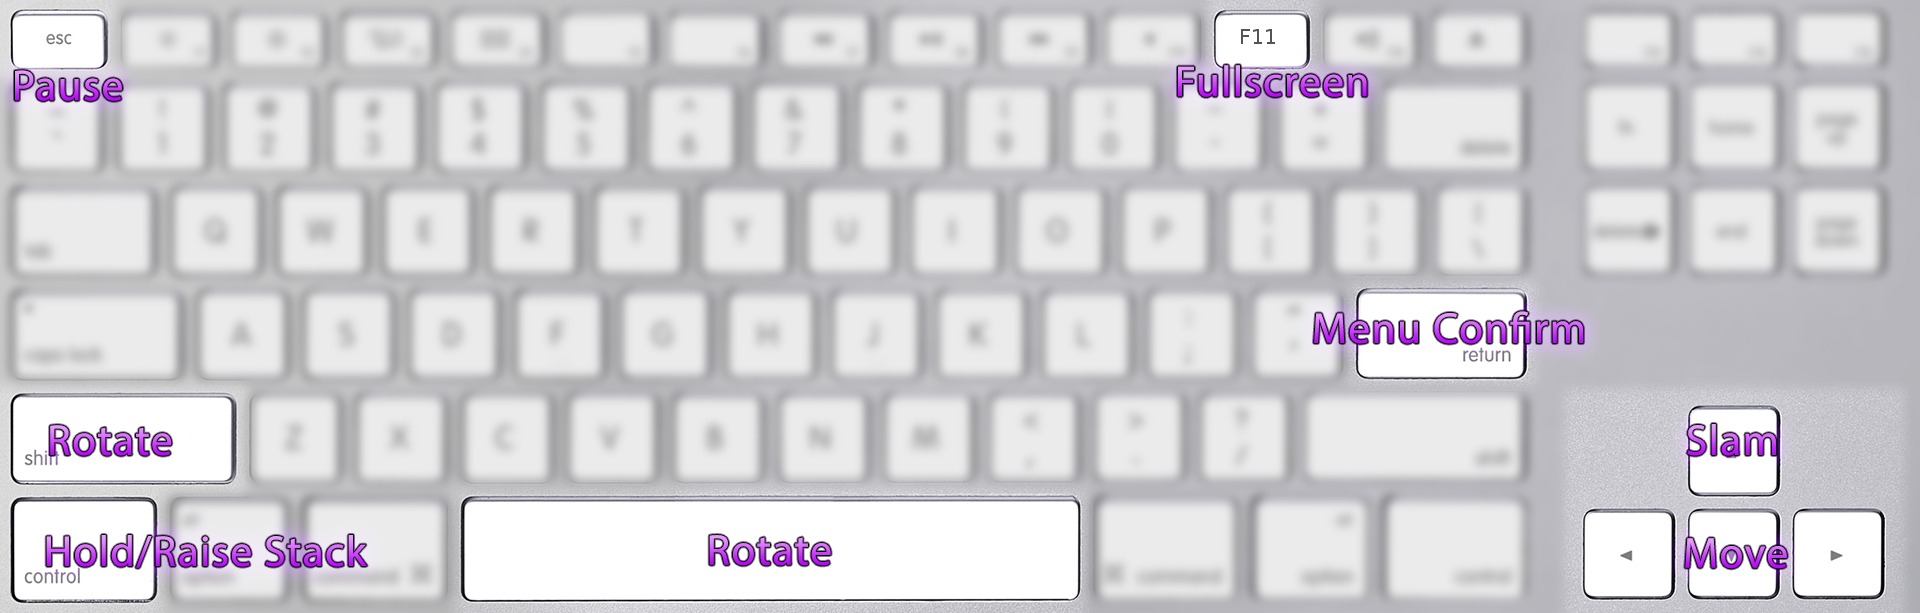
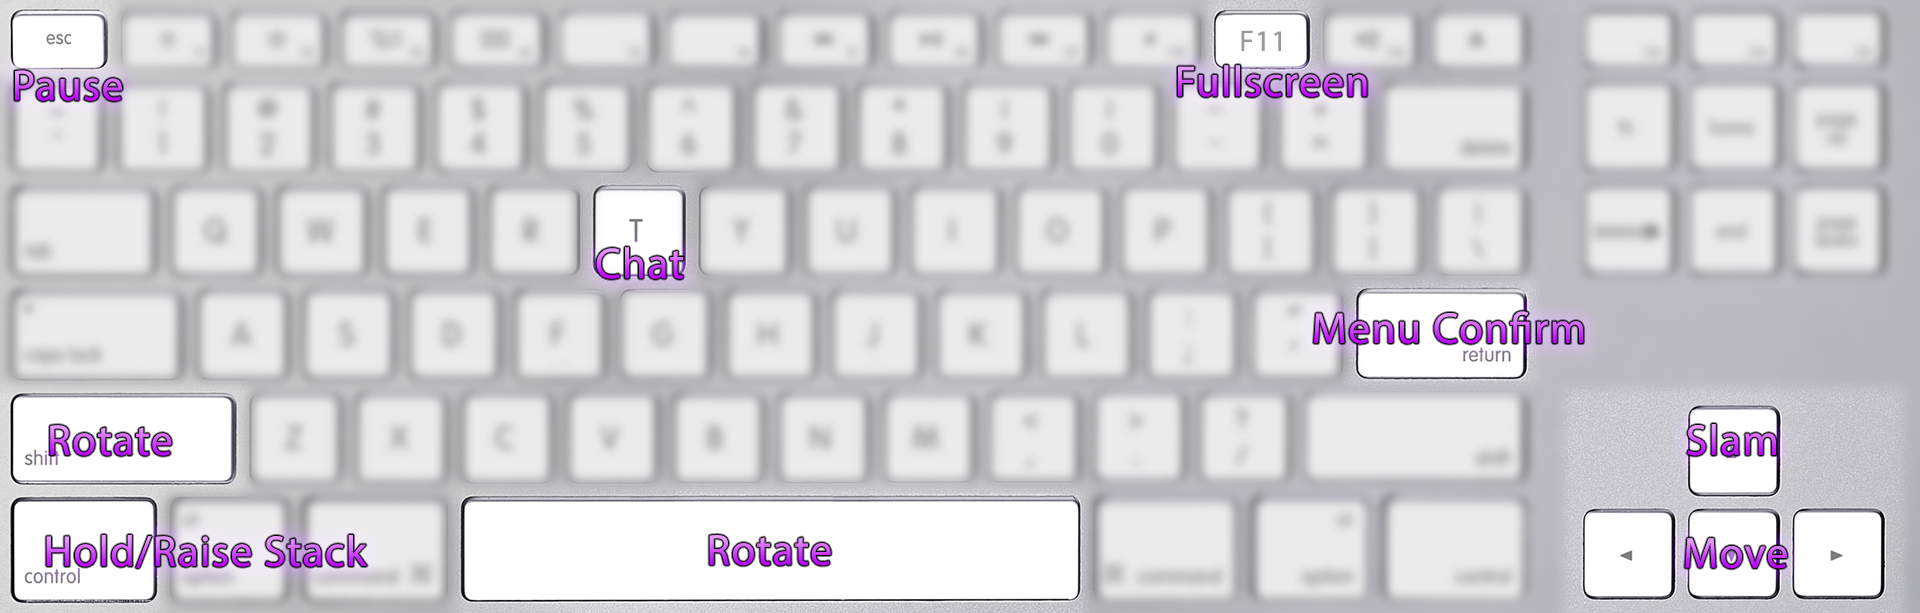
shipping new build, then do chat on server

Changed region(s): [[0.2812, 0.279, 0.375, 0.4959]]

diff --git a/src/Utility/ControlsManager.cpp b/src/Utility/ControlsManager.cpp
@@ -432,6 +432,177 @@ void ControlsManager::resetPressedButtons()
 }
 
 //=========================================================================================================================
+void ControlsManager::unsetHeldButtons()
+{//=========================================================================================================================
+	
+
+	KEY_UP_HELD = false;
+	KEY_DOWN_HELD = false;
+	KEY_LEFT_HELD = false;
+	KEY_RIGHT_HELD = false;
+	KEY_SPACE_HELD = false; //was A
+	KEY_TAB_HELD = false; //was START
+	KEY_RETURN_HELD = false; //was SELECT
+	KEY_A_HELD = false;
+	KEY_B_HELD = false;
+	KEY_C_HELD = false;
+	KEY_D_HELD = false;
+	KEY_E_HELD = false;
+	KEY_F_HELD = false;
+	KEY_G_HELD = false;
+	KEY_H_HELD = false;
+	KEY_I_HELD = false;
+	KEY_J_HELD = false;
+	KEY_K_HELD = false;
+	KEY_L_HELD = false;
+	KEY_M_HELD = false;
+	KEY_N_HELD = false;
+	KEY_O_HELD = false;
+	KEY_P_HELD = false;
+	KEY_Q_HELD = false;
+	KEY_R_HELD = false;
+	KEY_S_HELD = false;
+	KEY_T_HELD = false;
+	KEY_U_HELD = false;
+	KEY_V_HELD = false;
+	KEY_W_HELD = false;
+	KEY_X_HELD = false;
+	KEY_Y_HELD = false;
+	KEY_Z_HELD = false;
+	KEY_COMMA_HELD = false;
+	KEY_PERIOD_HELD = false;
+	KEY_FRONTSLASH_HELD = false;
+	KEY_SEMICOLON_HELD = false;
+	KEY_QUOTE_HELD = false;
+	KEY_BACKSLASH_HELD = false;
+
+	KEY_LBRACKET_HELD = false; //was L
+	KEY_RBRACKET_HELD = false; //was R
+	KEY_RALT_HELD = false;
+	KEY_LALT_HELD = false;
+	KEY_LSHIFT_HELD = false; //was B
+	KEY_RSHIFT_HELD = false; //quickzoom
+	KEY_LCTRL_HELD = false;
+	KEY_RCTRL_HELD = false; //quickzoom
+	KEY_BACKSPACE_HELD = false; //reset zoom
+	KEY_ESC_HELD = false;
+	KEY_F1_HELD = false;
+	KEY_F2_HELD = false;
+	KEY_F3_HELD = false;
+	KEY_F4_HELD = false;
+	KEY_F5_HELD = false;
+	KEY_F6_HELD = false;
+	KEY_F7_HELD = false;
+	KEY_F8_HELD = false;
+	KEY_F9_HELD = false;
+	KEY_F10_HELD = false;
+	KEY_F11_HELD = false;
+	KEY_F12_HELD = false;
+	KEY_PRINTSCREEN_HELD = false;
+	KEY_PAUSE_HELD = false;
+	KEY_TILDE_HELD = false;
+	KEY_1_HELD = false;
+	KEY_2_HELD = false;
+	KEY_3_HELD = false;
+	KEY_4_HELD = false;
+	KEY_5_HELD = false;
+	KEY_6_HELD = false;
+	KEY_7_HELD = false;
+	KEY_8_HELD = false;
+	KEY_9_HELD = false;
+	KEY_0_HELD = false;
+	KEY_MINUS_HELD = false; //zoom in
+	KEY_PLUS_HELD = false; //zoom out
+	KEY_NUM0_HELD = false;
+	KEY_NUM1_HELD = false;
+	KEY_NUM2_HELD = false;
+	KEY_NUM3_HELD = false;
+	KEY_NUM4_HELD = false;
+	KEY_NUM5_HELD = false;
+	KEY_NUM6_HELD = false;
+	KEY_NUM7_HELD = false;
+	KEY_NUM8_HELD = false;
+	KEY_NUM9_HELD = false;
+
+
+
+	BGCLIENT_UP_HELD = false;
+	BGCLIENT_DOWN_HELD = false;
+	BGCLIENT_LEFT_HELD = false;
+	BGCLIENT_RIGHT_HELD = false;
+	BGCLIENT_ACTION_HELD = false;
+	BGCLIENT_CANCELRUN_HELD = false;
+	//BGCLIENT_START_HELD = false;
+	//BGCLIENT_SELECT_HELD = false;
+	BGCLIENT_OPENND_HELD = false;
+	BGCLIENT_ZOOMOUT_HELD = false;
+	BGCLIENT_ZOOMIN_HELD = false;
+	BGCLIENT_ZOOMRESET_HELD = false;
+	BGCLIENT_OPENMENU_HELD = false;
+	BGCLIENT_QUICKZOOMOUT_HELD = false;
+	BGCLIENT_QUICKZOOMIN_HELD = false;
+
+
+
+	MINIGAME_UP_HELD = false;
+	MINIGAME_DOWN_HELD = false;
+	MINIGAME_LEFT_HELD = false;
+	MINIGAME_RIGHT_HELD = false;
+	MINIGAME_ANALOGUP_HELD = false;
+	MINIGAME_ANALOGDOWN_HELD = false;
+	MINIGAME_ANALOGLEFT_HELD = false;
+	MINIGAME_ANALOGRIGHT_HELD = false;
+	//MINIGAME_ACTION_HELD  = false;
+	//MINIGAME_RUN_HELD  = false;
+	//MINIGAME_START_HELD  = false;
+	//MINIGAME_SELECT_HELD  = false;
+	MINIGAME_L_HELD = false;
+	MINIGAME_R_HELD = false;
+	MINIGAME_Y_HELD = false;
+	MINIGAME_X_HELD = false;
+	MINIGAME_A_HELD = false;
+	MINIGAME_B_HELD = false;
+
+
+	BGCLIENT_UP_HELD = false;
+	BGCLIENT_DOWN_HELD = false;
+	BGCLIENT_LEFT_HELD = false;
+	BGCLIENT_RIGHT_HELD = false;
+	BGCLIENT_ACTION_HELD = false;
+	BGCLIENT_CANCELRUN_HELD = false;
+	//BGCLIENT_START_HELD = false;
+	//BGCLIENT_SELECT_HELD = false;
+	BGCLIENT_OPENND_HELD = false;
+	BGCLIENT_ZOOMOUT_HELD = false;
+	BGCLIENT_ZOOMIN_HELD = false;
+	BGCLIENT_ZOOMRESET_HELD = false;
+	BGCLIENT_OPENMENU_HELD = false;
+	BGCLIENT_QUICKZOOMOUT_HELD = false;
+	BGCLIENT_QUICKZOOMIN_HELD = false;
+
+
+	MINIGAME_UP_HELD = false;
+	MINIGAME_DOWN_HELD = false;
+	MINIGAME_LEFT_HELD = false;
+	MINIGAME_RIGHT_HELD = false;
+	MINIGAME_ANALOGUP_HELD = false;
+	MINIGAME_ANALOGDOWN_HELD = false;
+	MINIGAME_ANALOGLEFT_HELD = false;
+	MINIGAME_ANALOGRIGHT_HELD = false;
+	MINIGAME_ACTION_HELD = false;
+	MINIGAME_RUN_HELD = false;
+	MINIGAME_START_HELD = false;
+	MINIGAME_SELECT_HELD = false;
+	MINIGAME_L_HELD = false;
+	MINIGAME_R_HELD = false;
+	MINIGAME_X_HELD = false;
+	MINIGAME_Y_HELD = false;
+	MINIGAME_A_HELD = false;
+	MINIGAME_B_HELD = false;
+
+}
+
+//=========================================================================================================================
 void ControlsManager::setButtonStates()
 {//=========================================================================================================================
 
@@ -934,7 +1105,7 @@ SDL_JoyHatEvent
 			}
 
 		}
-		else
+		
 			 if (event.type == SDL_CONTROLLERDEVICEREMOVED)
 			 {
 				 SDL_JoystickID joystickID = event.cdevice.which;
@@ -961,7 +1132,7 @@ SDL_JoyHatEvent
 
 
 			 }
-			 else
+			 
 			if (event.type == SDL_CONTROLLERBUTTONDOWN)
 			{
 				int joystickID = event.cbutton.which;
@@ -1020,7 +1191,7 @@ SDL_JoyHatEvent
 				}
 				
 			}
-			else
+			
 			if (event.type == SDL_CONTROLLERBUTTONUP) 
 			{
 
@@ -1077,7 +1248,7 @@ SDL_JoyHatEvent
 				}
 				
 			}
-			else
+			
 			if (event.type == SDL_CONTROLLERAXISMOTION)
 			{
 				int id = event.caxis.which;
@@ -1169,7 +1340,7 @@ SDL_JoyHatEvent
 				
 
 			 }
-			else
+			
 			 if (event.type == SDL_JOYAXISMOTION)
 			 {
 				 SDL_JoystickID id = event.jaxis.which;
@@ -1291,12 +1462,12 @@ SDL_JoyHatEvent
 				 
 
 			 }
-			else
+			
 			if (event.type == SDL_TEXTINPUT) 
 			{
 				text += event.text.text;
 			}
-			else
+			
 		if (event.type == SDL_KEYDOWN)
 		{
 			if (event.key.keysym.sym == SDLK_BACKSPACE && text.length() > 0)
@@ -1396,7 +1567,7 @@ SDL_JoyHatEvent
 			default: break;
 			}
 		}
-		else
+		
 		if (event.type == SDL_KEYUP)
 		{
 			//int key = event.key.keysym.sym & ~SDLK_SCANCODE_MASK;
@@ -1492,7 +1663,7 @@ SDL_JoyHatEvent
 			default: break;
 			}
 		}
-		else
+		
 		if (event.type == SDL_MOUSEBUTTONUP)
 		{
 			if(event.button.button == SDL_BUTTON_LEFT)
@@ -1502,7 +1673,7 @@ SDL_JoyHatEvent
 				MOUSE_Y = event.button.y;
 			}
 		}
-		else
+		
 		if (event.type == SDL_MOUSEMOTION)
 		{
 
@@ -1510,12 +1681,12 @@ SDL_JoyHatEvent
 			MOUSE_Y = event.motion.y;
 			
 		}
-		else
+		
 		{
 
 #ifdef _DEBUG
 			if (event.type == SDL_FIRSTEVENT)							log.debug("SDL_FIRSTEVENT");
-			if (event.type == SDL_QUIT)								log.debug("SDL_FIRSTEVENT");
+			if (event.type == SDL_QUIT)								log.debug("SDL_QUIT");
 			if (event.type == SDL_APP_TERMINATING		)			log.debug("SDL_APP_TERMINATING");
 			if (event.type == SDL_APP_LOWMEMORY			)		log.debug("SDL_APP_LOWMEMORY");
 			if (event.type == SDL_APP_WILLENTERBACKGROUND)			log.debug("SDL_APP_WILLENTERBACKGROUND");
@@ -1524,8 +1695,8 @@ SDL_JoyHatEvent
 			if (event.type == SDL_APP_DIDENTERFOREGROUND)			log.debug("SDL_APP_DIDENTERFOREGROUND");
 			if (event.type == SDL_WINDOWEVENT			)			log.debug("SDL_WINDOWEVENT");
 			if (event.type == SDL_SYSWMEVENT			)			log.debug("SDL_SYSWMEVENT");
-			if (event.type == SDL_KEYDOWN				)			log.debug("SDL_KEYDOWN");
-			if (event.type == SDL_KEYUP					)		log.debug("SDL_KEYUP");
+			//if (event.type == SDL_KEYDOWN				)			log.debug("SDL_KEYDOWN");
+			//if (event.type == SDL_KEYUP					)		log.debug("SDL_KEYUP");
 			//if (event.type == SDL_TEXTEDITING			)			log.debug("SDL_TEXTEDITING");
 			//if (event.type == SDL_TEXTINPUT				)		log.debug("SDL_TEXTINPUT");
 			if (event.type == SDL_KEYMAPCHANGED			)		log.debug("SDL_KEYMAPCHANGED");

diff --git a/src/Engine/Engine.cpp b/src/Engine/Engine.cpp
@@ -167,10 +167,10 @@ void Engine::updateChatConsole()
 
 		if(stop)
 		{
-			Main::whilefix();
+			chatControlsManager->unsetHeldButtons();
 			chatFocused = false;
 			activeControlsManager = controlsManager;
-			Main::whilefix();
+			
 			if (textStarted) { SDL_StopTextInput(); textStarted = false; }
 
 			chatControlsManager->text = "";
@@ -187,10 +187,10 @@ void Engine::updateChatConsole()
 	{
 		if (getControlsManager()->key_T_Pressed())
 		{
-			Main::whilefix();
+			controlsManager->unsetHeldButtons();
 			chatFocused = true;
 			activeControlsManager = chatControlsManager;
-			Main::whilefix();
+			
 
 		}
 

diff --git a/src/Engine/network/TCPServerConnection.cpp b/src/Engine/network/TCPServerConnection.cpp
@@ -1826,7 +1826,7 @@ void TCPServerConnection::incomingChatMessage(string s)
 
 	s = s.substr(s.find(":") + 1);
 
-	Main::rightConsole->add(s);
+	Main::rightConsole->add(FileUtils::removeSwearWords(s));
 
 	Main::rightConsole->pruneChats(10);
 }

diff --git a/src/Utility/ControlsManager.h b/src/Utility/ControlsManager.h
@@ -725,6 +725,7 @@ public:
 	static void initControllers();
 	void resetPressedButtons();
 	void setButtonStates();
+	void unsetHeldButtons();
 
 	static void cleanup();
 

diff --git a/src/main.cpp b/src/main.cpp
@@ -331,7 +331,7 @@ void Main::mainInit()
 	GLUtils::e();
 
 
-
+	SDL_StopTextInput();
 
 
 
